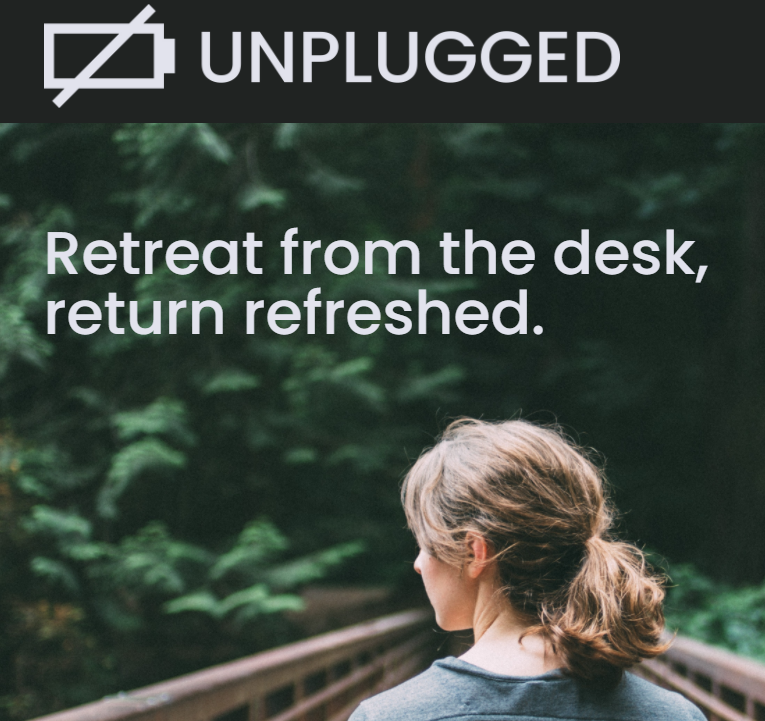
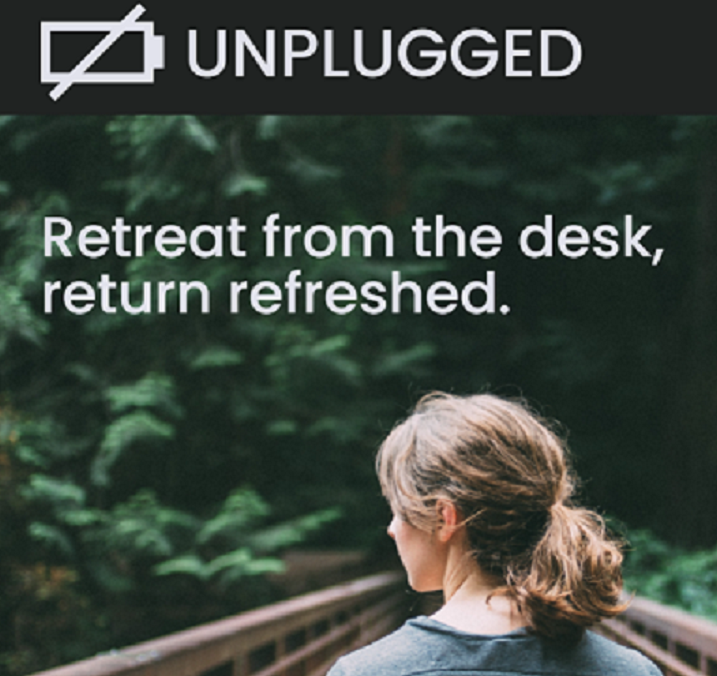
modified images

diff --git a/index.html b/index.html
@@ -120,14 +120,14 @@
             <div class="carousel owl-carousel">
                 <div class="card">
                     <div class="box">
-                        <img src="images/project-4-min.png" alt="">
+                        <img src="images/project-4.png" alt="">
                         <div class="text"> <a href="https://camfinancials.biz/"> Camfinancials</a></div>
                         <p>Tax services website coded with HTML, CSS &amp; Responsive. </p>
                     </div>
                 </div>
                 <div class="card">
                     <div class="box">
-                        <img src="images/project-3-min.png" alt="">
+                        <img src="images/project-3.png" alt="">
                         <div class="text"> <a href="https://jacquem-tech.github.io/Election-Map/."> Election Map</a></div>
                         <p>Interactive map of US election results  coded with HTML, CSS, &amp; JavaScript.</p>
                     </div>
@@ -141,7 +141,7 @@
                 </div>
                 <div class="card">
                     <div class="box">
-                        <img src="images/project-2-min.png" alt="">
+                        <img src="images/project-2.png" alt="">
                         <div class="text"><a href="https://jacquem-tech.github.io/magic-8-ball/.">Magic 8-Ball</a></div>
                         <p>Magic 8-ball coded with HTML,CSS &amp; JavaScript.</p>
                     </div>
@@ -150,28 +150,28 @@
                 
                 <div class="card">
                     <div class="box">
-                        <img src="images/project-5-min.png" alt="">
+                        <img src="images/project-5.png" alt="">
                         <div class="text"> <a href="https://jacquem-tech.github.io/unplugged/"> Unplugged</a></div>
                         <p>Lorem ipsum dolor sit amet consectetur adipisicing elit.</p>
                     </div>
                 </div>
                 <div class="card">
                     <div class="box">
-                        <img src="images/project-6-min.png" alt="">
+                        <img src="images/project-6.png" alt="">
                         <div class="text"> <a href="https://jacquem-tech.github.io/Vision-Board/"> Vision Board</a></div>
                         <p>Lorem ipsum dolor sit amet consectetur adipisicing elit.</p>
                     </div>
                 </div>
                 <div class="card">
                     <div class="box">
-                        <img src="images/project-7-min.png" alt="">
+                        <img src="images/project-7.png" alt="">
                         <div class="text"> <a href="https://jacquem-tech.github.io/rogue_pickings/."> Rogue Pickings</a></div>
                         <p>This is a restaurant website coded with HTML &amp; CSS from a Photoshop Design Comp.</p>
                     </div>
                 </div>
                 <div class="card">
                     <div class="box">
-                        <img src="images/project-8-min.png" alt="">
+                        <img src="images/project-8.png" alt="">
                         <div class="text"><a href="https://jacquem-tech.github.io/Recipes/"> Recipe Card</a></div>
                         <p>This is a recipe card website with three expertly styled recipe cards which shows off my CSS skills.</p>
                     </div>
